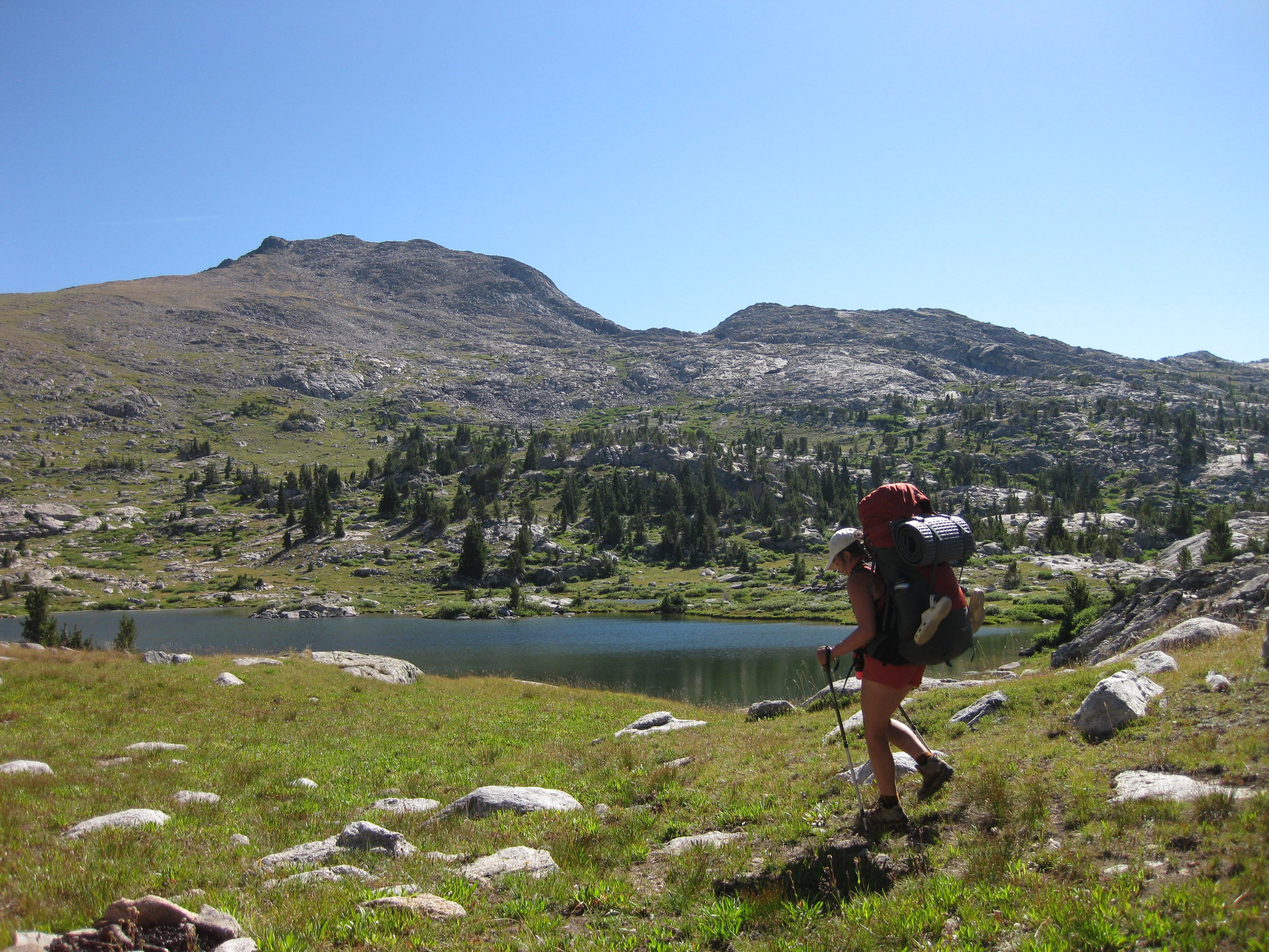
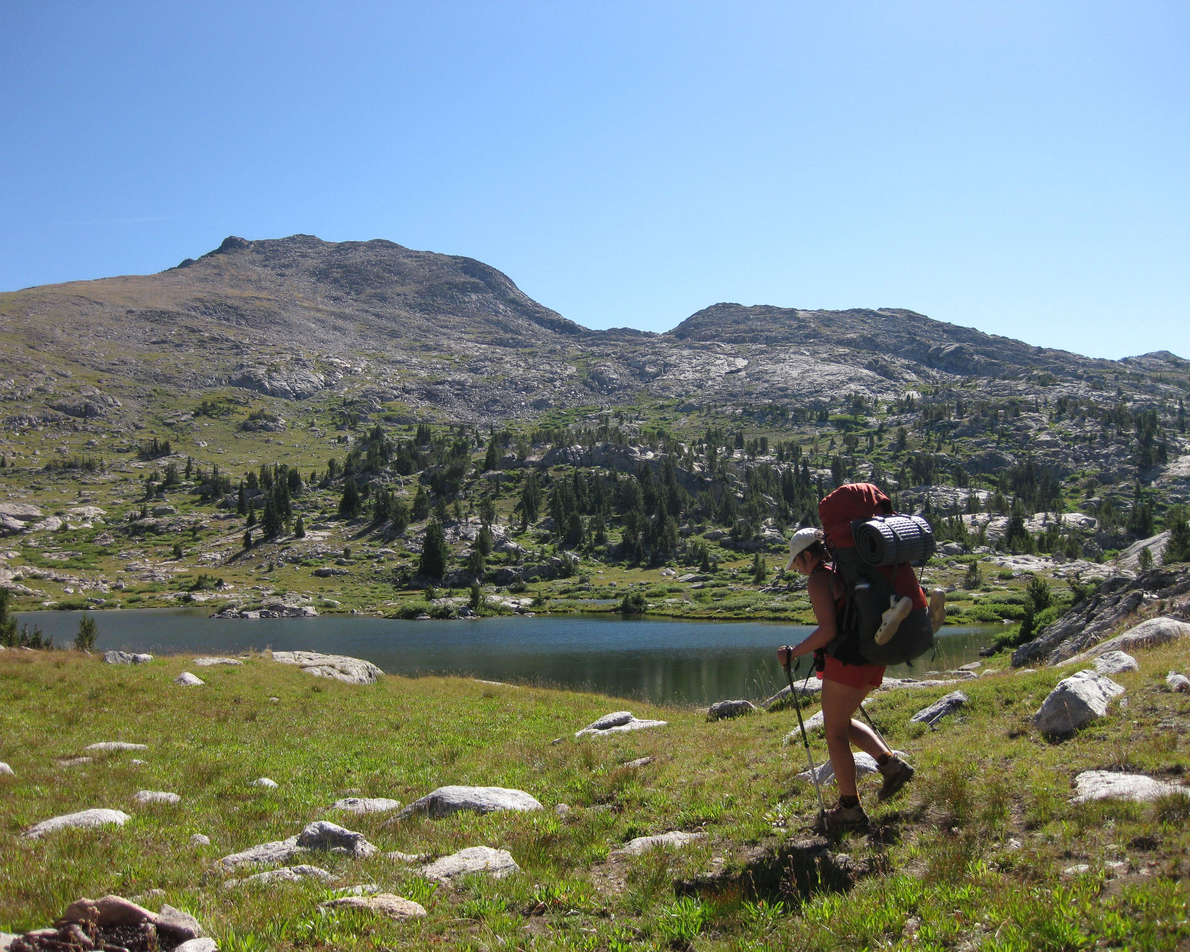
Class work

diff --git a/css/style.css b/css/style.css
@@ -32,7 +32,8 @@ footer {
     font-size: smaller;
 }
 
-/* our post class */
+
+/* Post Format  */
 .post, #post {
     border: 6px solid var(--dark-color);
     margin-bottom: 1em;
@@ -49,7 +50,6 @@ footer {
     a:hover {
         text-decoration: underline;
     }
-
 }
 
 #post {
@@ -59,100 +59,60 @@ footer {
     padding: .5em 1em;
 }
 
-#rcorners1 {
-  border-radius: 25px;
-  background: #ffffff;
-  border-color: #000000;
-  margin-bottom: 1em;
-  padding: .5em 1em;
-  width: 100%;
+
+
+/* Three Column Grid  */
+.three-columns-grid {
+    display: grid;
+    grid-auto-rows: 1fr;
+    grid-template-columns: 1fr 1fr 1fr;
+    padding: 1rem;
 }
 
-
-/* Lab 2 Styles */
-
-.hide-me {
-    display: none;
-}
-
-.post span {
-    color: var(--light-color)
-}
-
-.block-div, .block {
-    display: block;
-    border-radius: 1em;
-    color: var(--light-color);
-    background-color: var(--dark-color);
-    border: 1px solid var(--dark-color);
-
-    transform: rotate(-180deg);
-
-    font-weight: 800;
-    font-variation-settings: "width" 65;
-}
-
-.block {
-    margin: 1em 0;
-}
-
-.static {
-    position: static;
-    border: 1px solid var(--dark-color)
-}
-
-.fixed {
-    z-index: 999;
-    position: fixed;
-    bottom: 1em;
-    right: 1em;
-    width: 200px;
-    padding: 1em;
-    background-color: var(--light-color);
-    border: 1px solid var(--dark-color);
-}
-
-.relative {
-    position: relative;
-    left: 1em;
-    width: calc(100% - 1em);
-    border: 1px solid var(--dark-color);
-}
-
-.absolute-demo-holder {
-    position: relative;
-    border: 1px solid var(--dark-color);
-    width: 100%;
+.three-columns-grid > * {
+    padding: 1rem;
+    border: 6px solid var(--dark-color);
     margin-bottom: 1em;
-    aspect-ratio: 4/3;
-}
-
-.absolute-bubble {
-    position: absolute;
-    top: 50%;
-    left: 50%;
-    width: 100px;
-    background: var(--light-color);
-    border-radius: 50px;
-
-    transform: translate(-50%, -50%);
-}
-
-.sticky-demo-holder {
-    overflow-y: scroll;
-    position: relative;
-    border: 1px solid var(--dark-color);
-    width: 100%;
-    margin-bottom: 1em;
-    height: 200px;
-    p {
-        margin: 1em;
+    margin-inline: 1em;
+    img {
+        opacity: 1;
+        width: 100%;
+        height: auto;
+        display: block;
+        transition: .5s ease;
+        backface-visibility: hidden;
     }
-}
 
-.sticky-bit {
-    background-color: var(--light-color);
-    position: sticky;
-    top: 0;
-    padding: 1em;
+    .container {
+        position: relative;
+        width: auto;
+    }
+
+    .middle {
+        transition: .5s ease;
+        opacity: 0;
+        position: absolute;
+        top: 50%;
+        left: 50%;
+        transform: translate(-50%, -50%);
+        -ms-transform: translate(-50%, -50%);
+        text-align: left;
+    }
+
+    .container:hover .image {
+        opacity: 0.3;
+    }
+
+    .container:hover .middle {
+        opacity: 1;
+    }
+
+    .text {
+        background-color: var(--lightest-color);
+        color: var(--dark-color);
+        font-size: 16px;
+        padding: 16px 32px;
+        align: left;
+    }
+
 }

diff --git a/index.html b/index.html
@@ -23,10 +23,43 @@
             <img src="../assets/Backpacking_WebRing_1.JPG">
         </div>
 
-         <div class="post">
-            <h2><a href="../index1.html">The Wind River Range</a></h2>
-            <p>110 miles through the backcountry of Wyoming.</p>
-            <img src="../assets/Backpacking_WebRing_17.JPG">
+        <div class="three-columns-grid">
+            <div>
+                <h3>The Winds</h3>
+                <div class="container">
+                    <img src="../assets/Backpacking_WebRing_17.JPG">
+                        <div class="middle">
+                            <div class="text">I backpacked 110 miles over 21 days in the Wind River Range with the National Outdoor Leadership School. The scenery was insane, the weather was always unpredictable, and I made the best friends of my life.</div>
+                        </div>
+                </div>
+            </div>
+
+            <div>
+                <h3>Deep Snow</h3>
+                <div class="container">
+                    <img src="../assets/Backpacking_WebRing_8.JPG">
+                        <div class="middle">
+                            <div class="text">- The weather conditions of this trip were the most intense I have experienced. Temperatures were below 15º during the day and dipping lower at night. We snowshoed over snowpack with heavy backpacks carrying food for up to four days in case we had to stay an extra night. We hiked the tallest peak in the range via the Wittenberg-Cornell-Slide trail.</div>
+                        </div>
+                </div>
+            </div>
+
+            <div>
+                <h3>The Dacks</h3>
+                <div class="container">
+                    <img src="../assets/Backpacking_WebRing_3.JPG">
+                        <div class="middle">
+                            <div class="text">- One of the best trips I’ve packed, with great weather overall and challenging terrain. We summited Mt. Marcy, danced on the peak, and made it down before snow rolled in.</div>
+                        </div>
+                </div>
+            </div>
+           
+        </div>
+
+        <div class="post">
+            <h2>Gear Review</h2>
+            <p>The REI tent.</p>
+            <img src="../assets/Backpacking_WebRing_9.JPG">
         </div>
 
         <footer>
